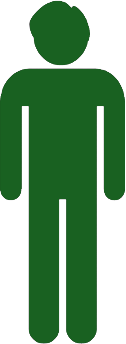
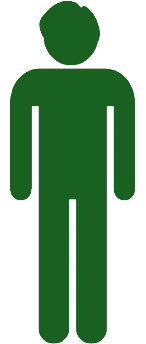
added family section to bottom

diff --git a/Minimum Wage/index.html b/Minimum Wage/index.html
@@ -38,7 +38,8 @@
 		</div>
 	</div>
 	
-<div id="expenses" class="container expenses">
+<div id="expenses" class="expenses">
+    <div class="container">
 		<div class="row">
                 <div class="col-sm-6 col-sm-offset-3 text-center">
                     <h1>What are your expenses?</h1>
@@ -218,7 +219,7 @@
                 </fieldset>			
                 </form> <!-- expense calculator -->
             </div> <!--Put Expense stuff here -->
-        </div>
+        </div> <!--Calculator-->
         <div class="col-md-4 col-md-offset-1" id="dollar" style="margin-left: 6.33333333%;"> <!--Dollar-->
             <div class="row">
                 <h4 id="number"</h4>
@@ -228,30 +229,94 @@
                 <img src="includes/images/dollar/dollar.jpg" id="image" />
             </div>
         </div> <!--Dollar-->
+    </div>
 </div> <!-- expense section-->
 
-<div id="split" class="container split">
+<div id="split" class="split">
+    <div class="container">
         <div class="col-md-6" id="view1">
             <div class="row" id="titlev1">
-                <h4>How big is your household?</h4>
+                <h2 style="margin-left:2%">How big is your household?</h2>
             </div> <!--title v1-->
+            <form id="familyform" class="form-horizontal">
+                
+            <br>    
+                
             <div class="row" id="contentv1">
-                <div class="col-md-12">
+                <div class="row">
+                    <div class="col-md-6">
+                        <div class="col-md-3">
+                        <img src="includes/images/family/dad.png" id="dadimage">
                 </div>
+                        <div class="col-md-6 col-md-offset-1">
+                        <div class="input-group">
+                            <span class="input-group-addon" 
+                                style="padding-right:5px; padding-left:5px;padding-bottom:5px">X
+                            </span>
+                            <input type="number" class="form-control" id="dad" placeholder="0">
+                        </div>
+                    </div>
+                    </div> <!--1-->
+                    <div class="col-md-6">
+                        <div class="col-md-3">
+                            <img src="includes/images/family/mom.png" id="dadimage">
+                        </div>
+                        <div class="col-md-6 col-md-offset-1">
+                            <div class="input-group">
+                                <span class="input-group-addon" 
+                                    style="padding-right:5px; padding-left:5px;padding-bottom:5px">X
+                                </span>
+                                <input type="number" class="form-control" id="dad" placeholder="0">
+                            </div>
+                        </div>
+                    </div> <!--2-->
+                </div> <!--quad 1, 2-->
+                
+                <br>
+                
+                <div class="row">
+                    <div class="col-md-6">
+                        <div class="col-md-3">
+                            <img src="includes/images/family/daughter.png" id="dadimage">
+                        </div>
+                        <div class="col-md-6 col-md-offset-1">
+                            <div class="input-group">
+                            <span class="input-group-addon" 
+                                style="padding-right:5px; padding-left:5px;padding-bottom:5px">X
+                            </span>
+                            <input type="number" class="form-control" id="dad" placeholder="0">
+                        </div>
+                        </div>
+                    </div> <!--3-->
+                    <div class="col-md-6">
+                        <div class="col-md-3">
+                            <img src="includes/images/family/son.png" id="dadimage">
+                        </div>
+                        <div class="col-md-6 col-md-offset-1">
+                            <div class="input-group">
+                                <span class="input-group-addon" 
+                                    style="padding-right:5px; padding-left:5px;padding-bottom:5px">X
+                                </span>
+                                <input type="number" class="form-control" id="dad" placeholder="0">
+                            </div>
+                        </div>
+                    </div> <!--4-->
+                </div> <!--quad 3, 4-->
+                
             </div>
-            <div class="row" id="contentv1">
+            </form>
                 <!-- put content here -->
-            </div> <!--content v1-->
-        </div> <!--v1-->
+        </div> <!--content v1-->
         <div class="col-md-6" id="view2">
             <div class="row" id="titlev2">
-                <h3 style="margin-left:2%">Where do you live?</h3>
+                <h2 style="margin-left:2%">Where do you live?</h2>
             </div> <!--title v2-->
             <div class="row" id="contentv2">
                         <div class="container state col-md-6 col-md-offset-0 text-center"
                         id="map" style="width: 570px; height: 400px;"></div>
             </div> <!--content v2-->
         </div> <!--v2-->
+    </div>
 </div> <!--split-->
 
 

diff --git a/Minimum Wage/includes/css/styles.css b/Minimum Wage/includes/css/styles.css
@@ -136,6 +136,10 @@ To Do:
          border-top: 1px solid #203D6C;
    }
 
+    #dadimage{
+        width:150%;
+    }
+
 /* --------------------------------------
    Split View1
    -------------------------------------- */
@@ -155,7 +159,8 @@ To Do:
    	border-top: 2px solid #cccccc;
    }
 
-    #titlev2 {
+    #titlev2,
+    #titlev1{
         color: #203D6C;
         background: #A9D0AE;
     }
@@ -164,9 +169,10 @@ To Do:
    Expenses
    -------------------------------------- */
    .expenses{
-	   background: #E0E0E0;
-      padding: 50px 0;
-      color: #203D6C;
+        background: #E0E0E0;
+        padding: 50px 0;
+        color: #203D6C;
+       
    }
 
     .expenseshr{
@@ -215,7 +221,12 @@ To Do:
     background-color: #E0E0E0;
 }
 
-
+/* --------------------------------------
+   Split
+   -------------------------------------- */
+.split{
+background:#A9D0AE;
+}
 
    
    /* --------------------------------------
